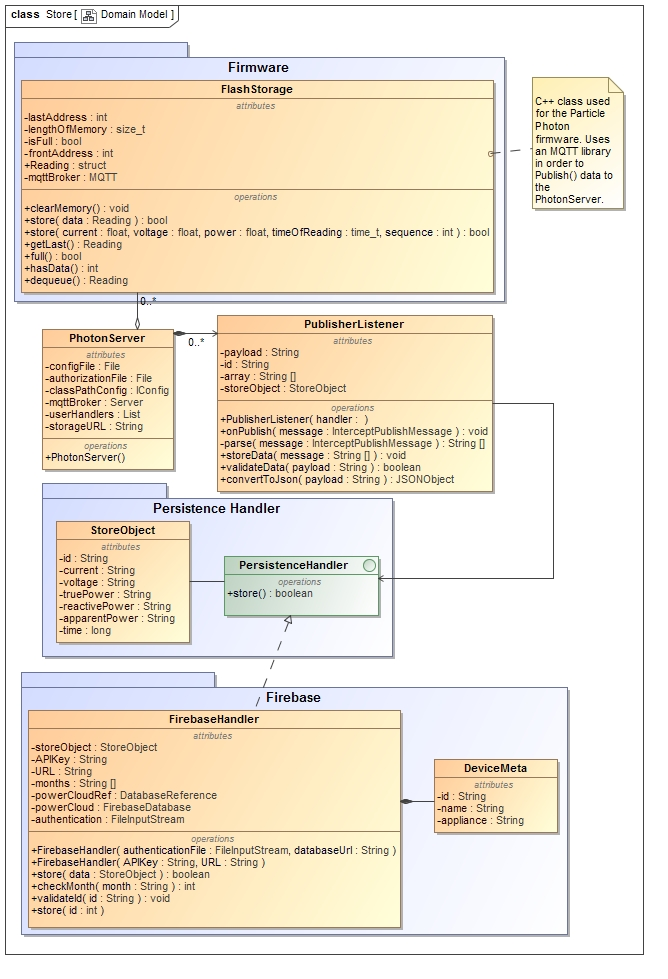
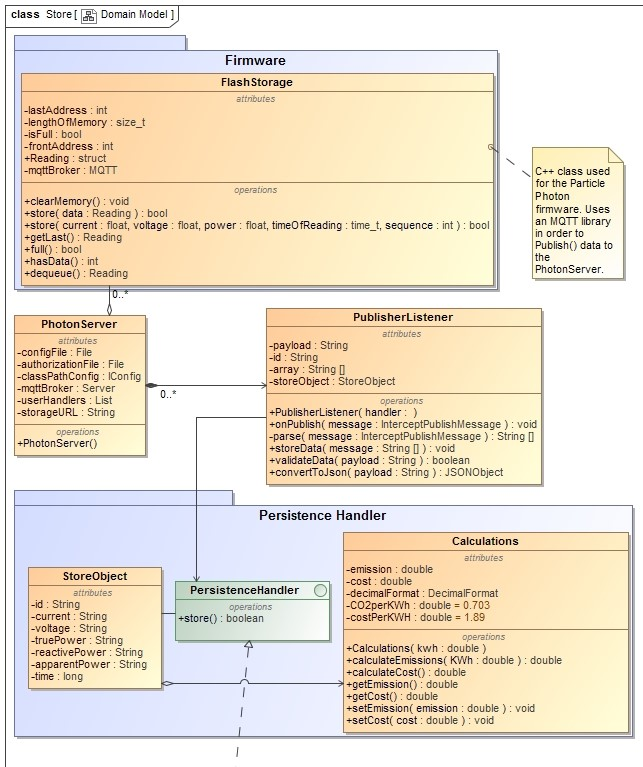
New Domain Model and spaces

diff --git a/Functional_Requirements/FuctionalRequirements.tex b/Functional_Requirements/FuctionalRequirements.tex
@@ -45,6 +45,7 @@ includefoot
 				PowerCloud\\
 				Functional Specification
 			} \\
+			\textsc{\large version 2.0}\\
 			[0.1cm]
 			\line(1,0){300} \\
 			[2.0cm]
@@ -85,11 +86,20 @@ includefoot
 	requirements of the PowerCloud project. This document is an ongoing 
 	piece of work, and is updated as the project progresses.
 	\section{Vision}
-	\textbf{PowerCloud} is a system which allows its users to measure the power consumption of an appliance, store this information on a cloud platform, and view useful reports based on this information via a web interface. The system will allow the storage of important meta-data pertaining to a source's power consumption and which devices the data is taken from. The system is initially intended to be used for internal use and testing by the client, Buhler.\\
+	\textbf{PowerCloud} is a system which allows its users to measure the power consumption of an appliance, store this 
+	information on a cloud platform, and view useful reports based on this information via a web interface. The system will 
+	allow the storage of important meta-data pertaining to a source's power consumption and which devices the data is taken 
+	from. The system is initially intended to be used for internal use and testing by the client, Buhler.\\
 	
-	The system will consist out of a hardware component, and a software component. The hardware component will be tasked with measuring the current and voltage from an input device, which will be used to perform the power calculations which are required. The hardware device will send this information to a web server. This server will perform any required processing on this information, before posting it to a persistence provider.\\
+	The system will consist out of a hardware component, and a software component. The hardware component will be tasked with 
+	measuring the current and voltage from an input device, which will be used to perform the power calculations which are 
+	required. The hardware device will send this information to a web server. This server will perform any required processing 
+	on this information, before posting it to a persistence provider.\\
 	
-	A user within the system will have access to a number of functions. Users will be able to add and set up new devices, adding to the system, which will send data based on readings from the attached appliance. Additionally, the user can view the data once it has be stored on the persistence provider, and can request reports based off of this data.
+	A user within the system will have access to a number of functions. Users will be able to add and set up new devices, 
+	adding to the system, which will send data based on readings from the attached appliance. Additionally, the user can view 
+	the data once it has be stored on the persistence provider, and can request reports based off of this data.
+	
 	\section{Background}
 	PowerCloud enables the tracking and monitoring of the power and electricity 
 	usage of electrical appliances and machines. PowerCloud could potentially help 
@@ -292,6 +302,9 @@ includefoot
 	\subsection{Domain Model}
 	\begin{figure}[H]
 		\includegraphics[scale=0.7]{images/Domain Model.jpg}
+	\end{figure}
+	\begin{figure}[H]	
+		\includegraphics[scale=0.7]{images/Domain Model (2).jpg}
 		\caption{Domain Model for PowerCloud \label{overflow}}
 	\end{figure}
 \end{document} 
